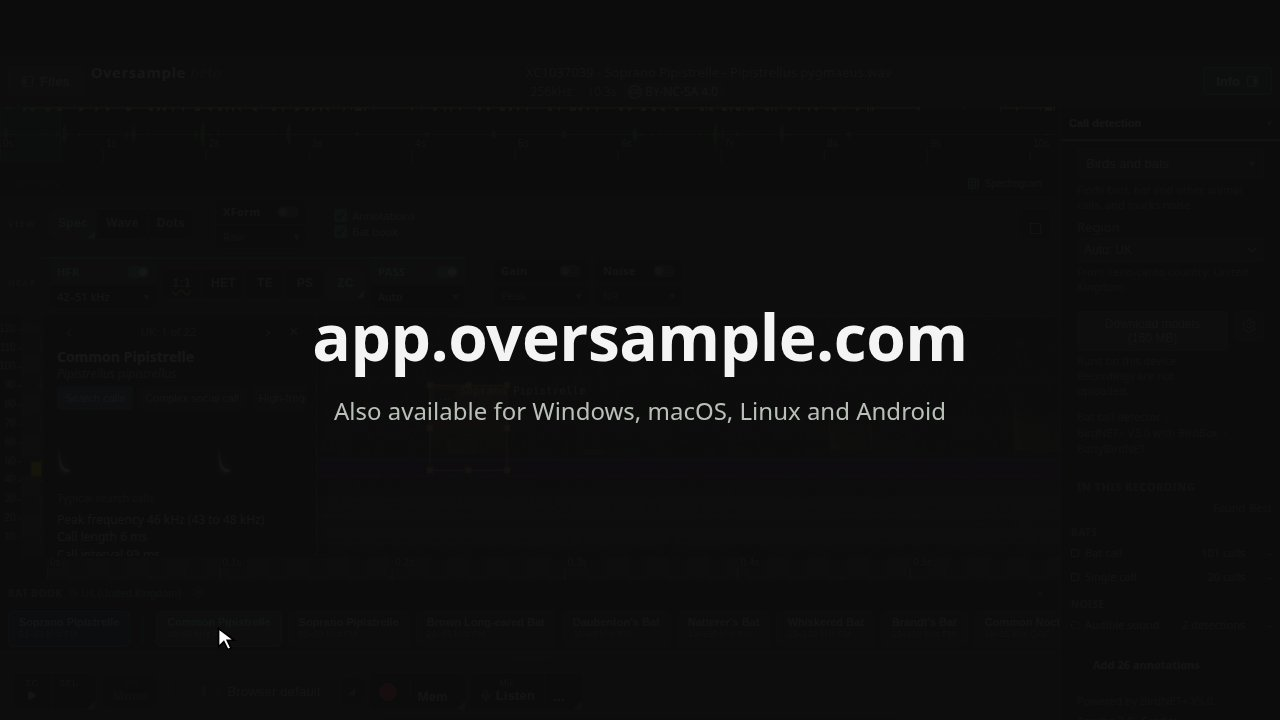
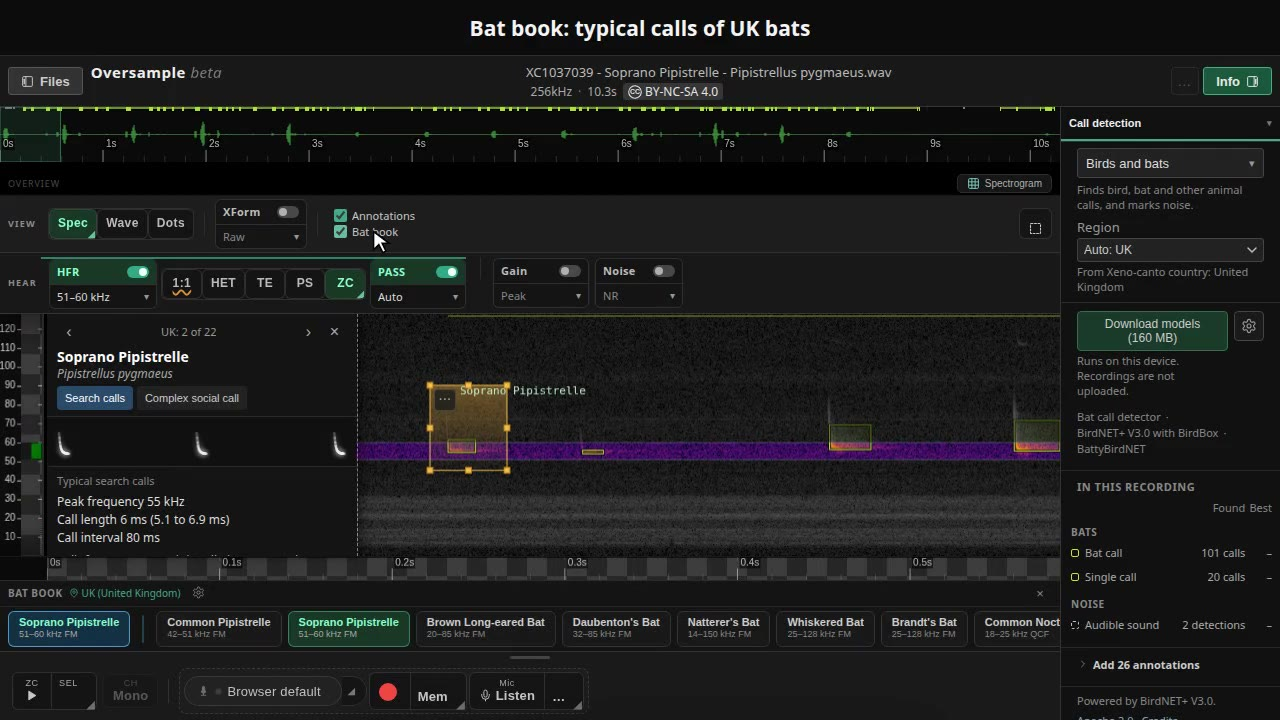
fix(media): tour poster shows the bat book step, not the dark end card

diff --git a/media/README.md b/media/README.md
@@ -1,8 +1,8 @@
 # Media for web pages
 
 Short silent videos of Oversample for web pages and posts: 1280 × 720 MP4,
-each with a `<name>-poster.jpg`. A caption above the app says what each clip
-shows.
+each with a `<name>-poster.jpg` (its last frame; the tour's is from the bat
+book step). A caption above the app says what each clip shows.
 
 | Clip | Length | Shows |
 |---|---|---|
